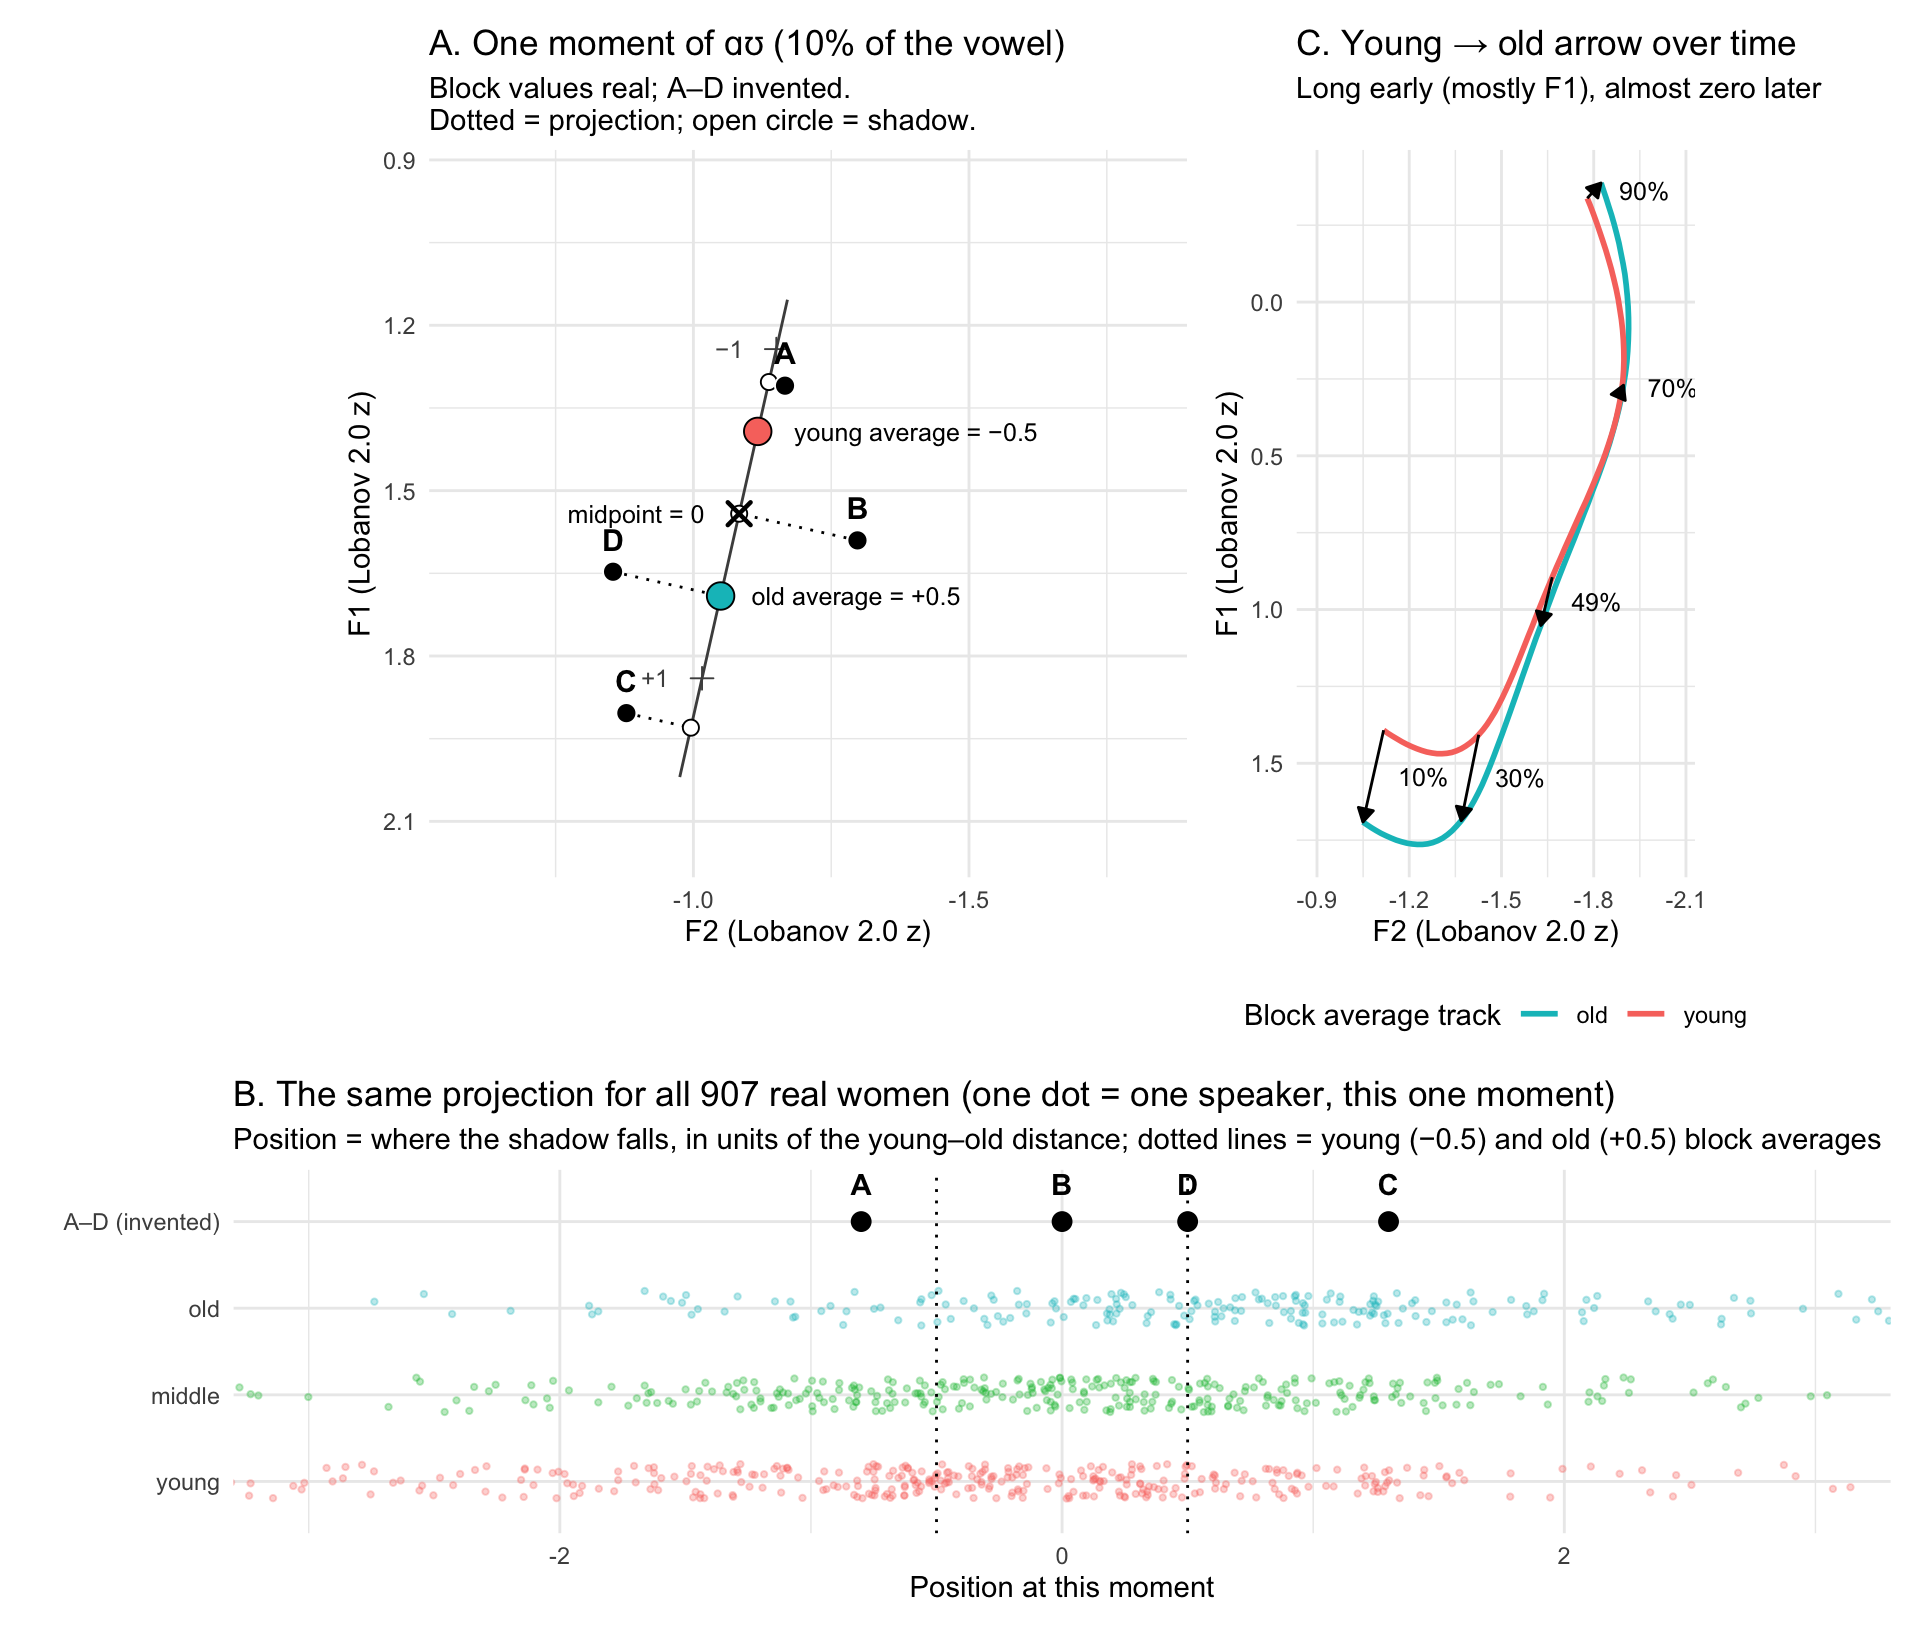
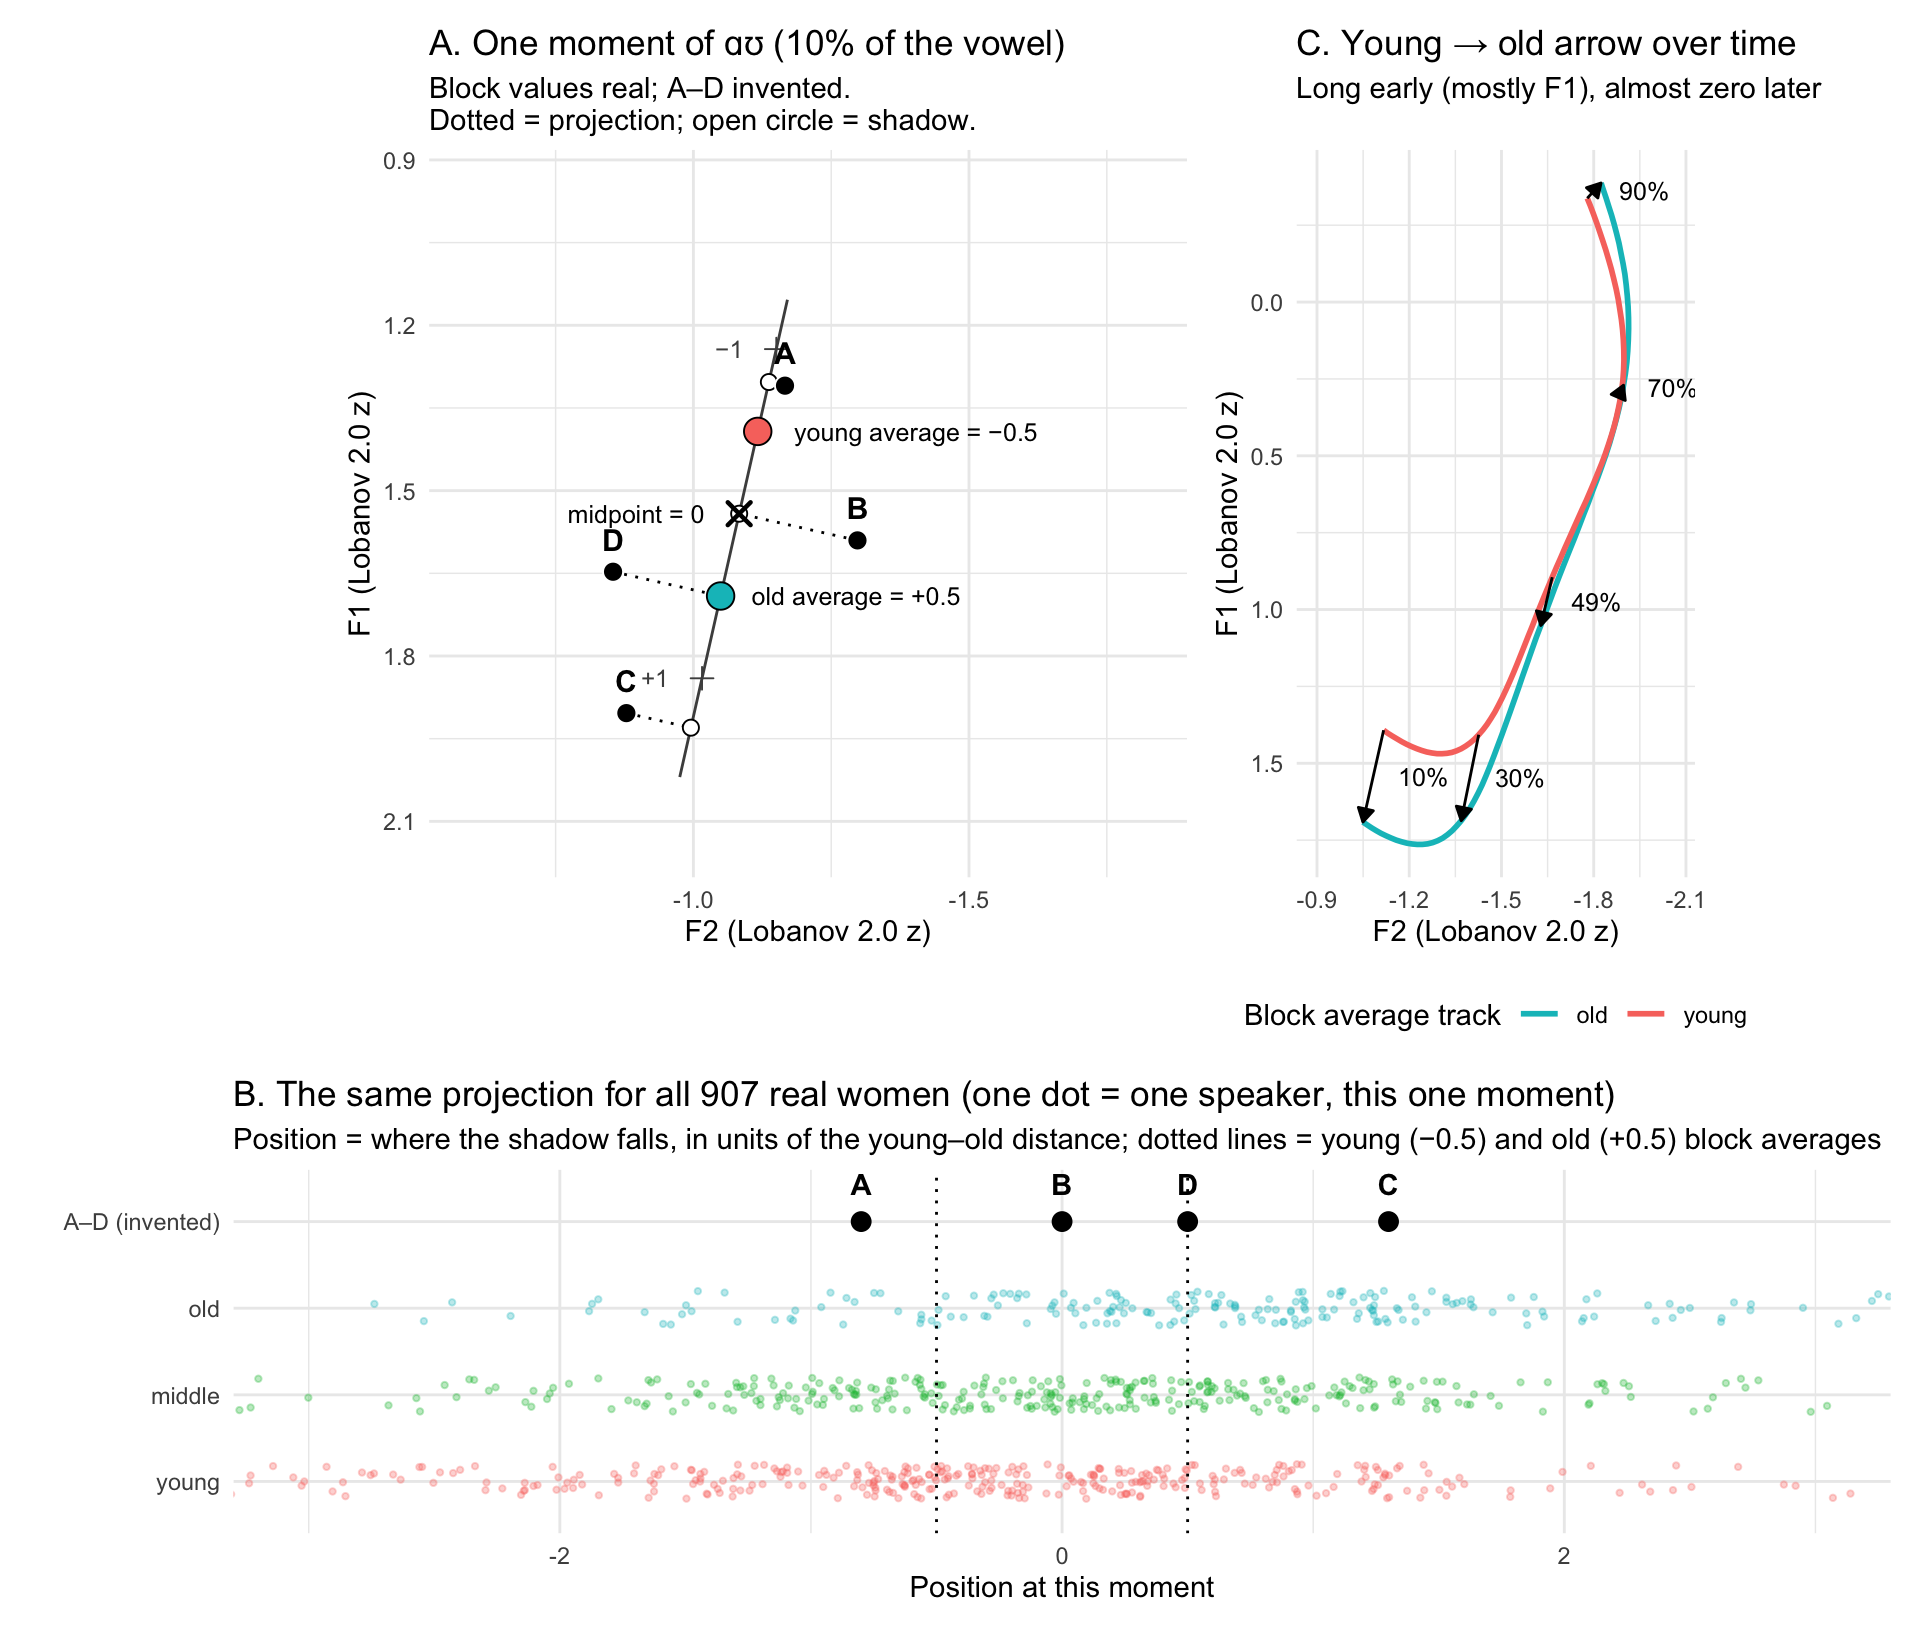
Add overlap columns to speaker-spread table

diff --git a/index.html b/index.html
@@ -3767,19 +3767,36 @@ pre > code.sourceCode > span > a:first-child::before { text-decoration: underlin
 <span id="cb46-6"><a href="#cb46-6" aria-hidden="true" tabindex="-1"></a>  <span class="fu">mutate</span>(<span class="at">g1 =</span> F1_old_block <span class="sc">-</span> F1_young_block, <span class="at">g2 =</span> F2_old_block <span class="sc">-</span> F2_young_block) <span class="sc">|&gt;</span></span>
 <span id="cb46-7"><a href="#cb46-7" aria-hidden="true" tabindex="-1"></a>  <span class="fu">summarise</span>(<span class="at">gap =</span> <span class="fu">sqrt</span>(<span class="fu">mean</span>(g1<span class="sc">^</span><span class="dv">2</span> <span class="sc">+</span> g2<span class="sc">^</span><span class="dv">2</span>)), <span class="at">.by =</span> label) <span class="sc">|&gt;</span></span>
 <span id="cb46-8"><a href="#cb46-8" aria-hidden="true" tabindex="-1"></a>  <span class="co"># spread of the speakers' positions in gap units (median over draws); one position unit = the gap, so spread (z) = SD x gap</span></span>
-<span id="cb46-9"><a href="#cb46-9" aria-hidden="true" tabindex="-1"></a>  <span class="fu">mutate</span>(<span class="at">sd_gap =</span> <span class="fu">map_dbl</span>(label, \(v) <span class="fu">median</span>(spd[[v]]<span class="sc">$</span>per_draw<span class="sc">$</span>sd_within)), <span class="at">spread_z =</span> sd_gap <span class="sc">*</span> gap) <span class="sc">|&gt;</span></span>
-<span id="cb46-10"><a href="#cb46-10" aria-hidden="true" tabindex="-1"></a>  <span class="fu">arrange</span>(<span class="fu">desc</span>(gap))</span>
-<span id="cb46-11"><a href="#cb46-11" aria-hidden="true" tabindex="-1"></a>gap_tbl <span class="sc">|&gt;</span></span>
-<span id="cb46-12"><a href="#cb46-12" aria-hidden="true" tabindex="-1"></a>  <span class="fu">transmute</span>(<span class="at">Vowel =</span> label, <span class="st">`</span><span class="at">Gap, RMS over 10–90% (z)</span><span class="st">`</span> <span class="ot">=</span> gap, <span class="st">`</span><span class="at">Individual spread (approx., z)</span><span class="st">`</span> <span class="ot">=</span> spread_z) <span class="sc">|&gt;</span></span>
-<span id="cb46-13"><a href="#cb46-13" aria-hidden="true" tabindex="-1"></a>  knitr<span class="sc">::</span><span class="fu">kable</span>(<span class="at">digits =</span> <span class="dv">2</span>, <span class="at">caption =</span> <span class="st">"Size of the old − young change per vowel and spread of individual speakers (ordered by the size of the gap)"</span>)</span></code></pre></div><button title="Copy to Clipboard" class="code-copy-button"><i class="bi"></i></button></div>
+<span id="cb46-9"><a href="#cb46-9" aria-hidden="true" tabindex="-1"></a>  <span class="fu">mutate</span>(<span class="at">sd_gap =</span> <span class="fu">map_dbl</span>(label, \(v) <span class="fu">median</span>(spd[[v]]<span class="sc">$</span>per_draw<span class="sc">$</span>sd_within)), <span class="at">spread_z =</span> sd_gap <span class="sc">*</span> gap,</span>
+<span id="cb46-10"><a href="#cb46-10" aria-hidden="true" tabindex="-1"></a>         <span class="co"># overlap of the old and young speaker distributions: Cohen's d (gap / pooled within-block SD) per draw;</span></span>
+<span id="cb46-11"><a href="#cb46-11" aria-hidden="true" tabindex="-1"></a>         <span class="co"># overlapping coefficient of two normals with equal SD = 2 * pnorm(-|d| / 2); AUC = P(random old speaker is further on the old side than a random young one)</span></span>
+<span id="cb46-12"><a href="#cb46-12" aria-hidden="true" tabindex="-1"></a>         <span class="at">d =</span> <span class="fu">map_dbl</span>(label, \(v) <span class="fu">median</span>(spd[[v]]<span class="sc">$</span>per_draw<span class="sc">$</span>cohen_d)),</span>
+<span id="cb46-13"><a href="#cb46-13" aria-hidden="true" tabindex="-1"></a>         <span class="at">auc =</span> <span class="fu">map_dbl</span>(label, \(v) <span class="fu">median</span>(spd[[v]]<span class="sc">$</span>per_draw<span class="sc">$</span>auc)),</span>
+<span id="cb46-14"><a href="#cb46-14" aria-hidden="true" tabindex="-1"></a>         <span class="at">overlap =</span> <span class="fu">map_dbl</span>(label, \(v) <span class="fu">median</span>(<span class="dv">2</span> <span class="sc">*</span> <span class="fu">pnorm</span>(<span class="sc">-</span><span class="fu">abs</span>(spd[[v]]<span class="sc">$</span>per_draw<span class="sc">$</span>cohen_d) <span class="sc">/</span> <span class="dv">2</span>)))) <span class="sc">|&gt;</span></span>
+<span id="cb46-15"><a href="#cb46-15" aria-hidden="true" tabindex="-1"></a>  <span class="fu">arrange</span>(<span class="fu">desc</span>(gap))</span>
+<span id="cb46-16"><a href="#cb46-16" aria-hidden="true" tabindex="-1"></a>gap_tbl <span class="sc">|&gt;</span></span>
+<span id="cb46-17"><a href="#cb46-17" aria-hidden="true" tabindex="-1"></a>  <span class="fu">transmute</span>(<span class="at">Vowel =</span> label, <span class="st">`</span><span class="at">Gap, RMS over 10–90% (z)</span><span class="st">`</span> <span class="ot">=</span> gap, <span class="st">`</span><span class="at">Individual spread (approx., z)</span><span class="st">`</span> <span class="ot">=</span> spread_z,</span>
+<span id="cb46-18"><a href="#cb46-18" aria-hidden="true" tabindex="-1"></a>            <span class="st">`</span><span class="at">Cohen's d</span><span class="st">`</span> <span class="ot">=</span> <span class="fu">abs</span>(d), <span class="st">`</span><span class="at">Overlap of young and old (%)</span><span class="st">`</span> <span class="ot">=</span> <span class="dv">100</span> <span class="sc">*</span> overlap, <span class="st">`</span><span class="at">AUC</span><span class="st">`</span> <span class="ot">=</span> auc) <span class="sc">|&gt;</span></span>
+<span id="cb46-19"><a href="#cb46-19" aria-hidden="true" tabindex="-1"></a>  knitr<span class="sc">::</span><span class="fu">kable</span>(<span class="at">digits =</span> <span class="fu">c</span>(<span class="dv">0</span>, <span class="dv">2</span>, <span class="dv">2</span>, <span class="dv">1</span>, <span class="dv">0</span>, <span class="dv">2</span>), <span class="at">caption =</span> <span class="st">"Size of the old − young change per vowel, spread of individual speakers and overlap of the young and old speakers (ordered by the size of the gap). Overlap: shared area of the two speaker distributions (normal approximation from d); AUC: probability that a random old speaker lies further on the old side than a random young speaker (0.5 = no separation, 1 = complete separation)."</span>)</span></code></pre></div><button title="Copy to Clipboard" class="code-copy-button"><i class="bi"></i></button></div>
 <div class="cell-output-display">
 <table class="caption-top table table-sm table-striped small">
-<caption>Size of the old − young change per vowel and spread of individual speakers (ordered by the size of the gap)</caption>
+<caption>Size of the old − young change per vowel, spread of individual speakers and overlap of the young and old speakers (ordered by the size of the gap). Overlap: shared area of the two speaker distributions (normal approximation from d); AUC: probability that a random old speaker lies further on the old side than a random young speaker (0.5 = no separation, 1 = complete separation).</caption>
+<colgroup>
+<col style="width: 5%">
+<col style="width: 23%">
+<col style="width: 29%">
+<col style="width: 9%">
+<col style="width: 27%">
+<col style="width: 4%">
+</colgroup>
 <thead>
 <tr class="header">
 <th style="text-align: left;">Vowel</th>
 <th style="text-align: right;">Gap, RMS over 10–90% (z)</th>
 <th style="text-align: right;">Individual spread (approx., z)</th>
+<th style="text-align: right;">Cohen’s d</th>
+<th style="text-align: right;">Overlap of young and old (%)</th>
+<th style="text-align: right;">AUC</th>
 </tr>
 </thead>
 <tbody>
@@ -3787,61 +3804,97 @@ pre > code.sourceCode > span > a:first-child::before { text-decoration: underlin
 <td style="text-align: left;">ɜɪ</td>
 <td style="text-align: right;">0.39</td>
 <td style="text-align: right;">0.18</td>
+<td style="text-align: right;">2.1</td>
+<td style="text-align: right;">29</td>
+<td style="text-align: right;">0.93</td>
 </tr>
 <tr class="even">
 <td style="text-align: left;">ɑɪ</td>
 <td style="text-align: right;">0.28</td>
 <td style="text-align: right;">0.16</td>
+<td style="text-align: right;">1.8</td>
+<td style="text-align: right;">38</td>
+<td style="text-align: right;">0.90</td>
 </tr>
 <tr class="odd">
 <td style="text-align: left;">ɑ</td>
 <td style="text-align: right;">0.25</td>
 <td style="text-align: right;">0.16</td>
+<td style="text-align: right;">1.5</td>
+<td style="text-align: right;">44</td>
+<td style="text-align: right;">0.86</td>
 </tr>
 <tr class="even">
 <td style="text-align: left;">əʊ</td>
 <td style="text-align: right;">0.22</td>
 <td style="text-align: right;">0.15</td>
+<td style="text-align: right;">1.5</td>
+<td style="text-align: right;">47</td>
+<td style="text-align: right;">0.85</td>
 </tr>
 <tr class="odd">
 <td style="text-align: left;">ɑʊ</td>
 <td style="text-align: right;">0.20</td>
 <td style="text-align: right;">0.12</td>
+<td style="text-align: right;">1.6</td>
+<td style="text-align: right;">43</td>
+<td style="text-align: right;">0.87</td>
 </tr>
 <tr class="even">
 <td style="text-align: left;">aː</td>
 <td style="text-align: right;">0.17</td>
 <td style="text-align: right;">0.22</td>
+<td style="text-align: right;">0.8</td>
+<td style="text-align: right;">70</td>
+<td style="text-align: right;">0.72</td>
 </tr>
 <tr class="odd">
 <td style="text-align: left;">æ</td>
 <td style="text-align: right;">0.16</td>
 <td style="text-align: right;">0.19</td>
+<td style="text-align: right;">0.9</td>
+<td style="text-align: right;">67</td>
+<td style="text-align: right;">0.73</td>
 </tr>
 <tr class="even">
 <td style="text-align: left;">o</td>
 <td style="text-align: right;">0.15</td>
 <td style="text-align: right;">0.14</td>
+<td style="text-align: right;">1.0</td>
+<td style="text-align: right;">61</td>
+<td style="text-align: right;">0.77</td>
 </tr>
 <tr class="odd">
 <td style="text-align: left;">æːɪ</td>
 <td style="text-align: right;">0.14</td>
 <td style="text-align: right;">0.16</td>
+<td style="text-align: right;">0.8</td>
+<td style="text-align: right;">68</td>
+<td style="text-align: right;">0.73</td>
 </tr>
 <tr class="even">
 <td style="text-align: left;">oː</td>
 <td style="text-align: right;">0.13</td>
 <td style="text-align: right;">0.16</td>
+<td style="text-align: right;">0.8</td>
+<td style="text-align: right;">69</td>
+<td style="text-align: right;">0.72</td>
 </tr>
 <tr class="odd">
 <td style="text-align: left;">æːʊ</td>
 <td style="text-align: right;">0.11</td>
 <td style="text-align: right;">0.20</td>
+<td style="text-align: right;">0.5</td>
+<td style="text-align: right;">78</td>
+<td style="text-align: right;">0.66</td>
 </tr>
 <tr class="even">
 <td style="text-align: left;">eː</td>
 <td style="text-align: right;">0.10</td>
 <td style="text-align: right;">0.15</td>
+<td style="text-align: right;">0.7</td>
+<td style="text-align: right;">73</td>
+<td style="text-align: right;">0.69</td>
 </tr>
 </tbody>
 </table>
